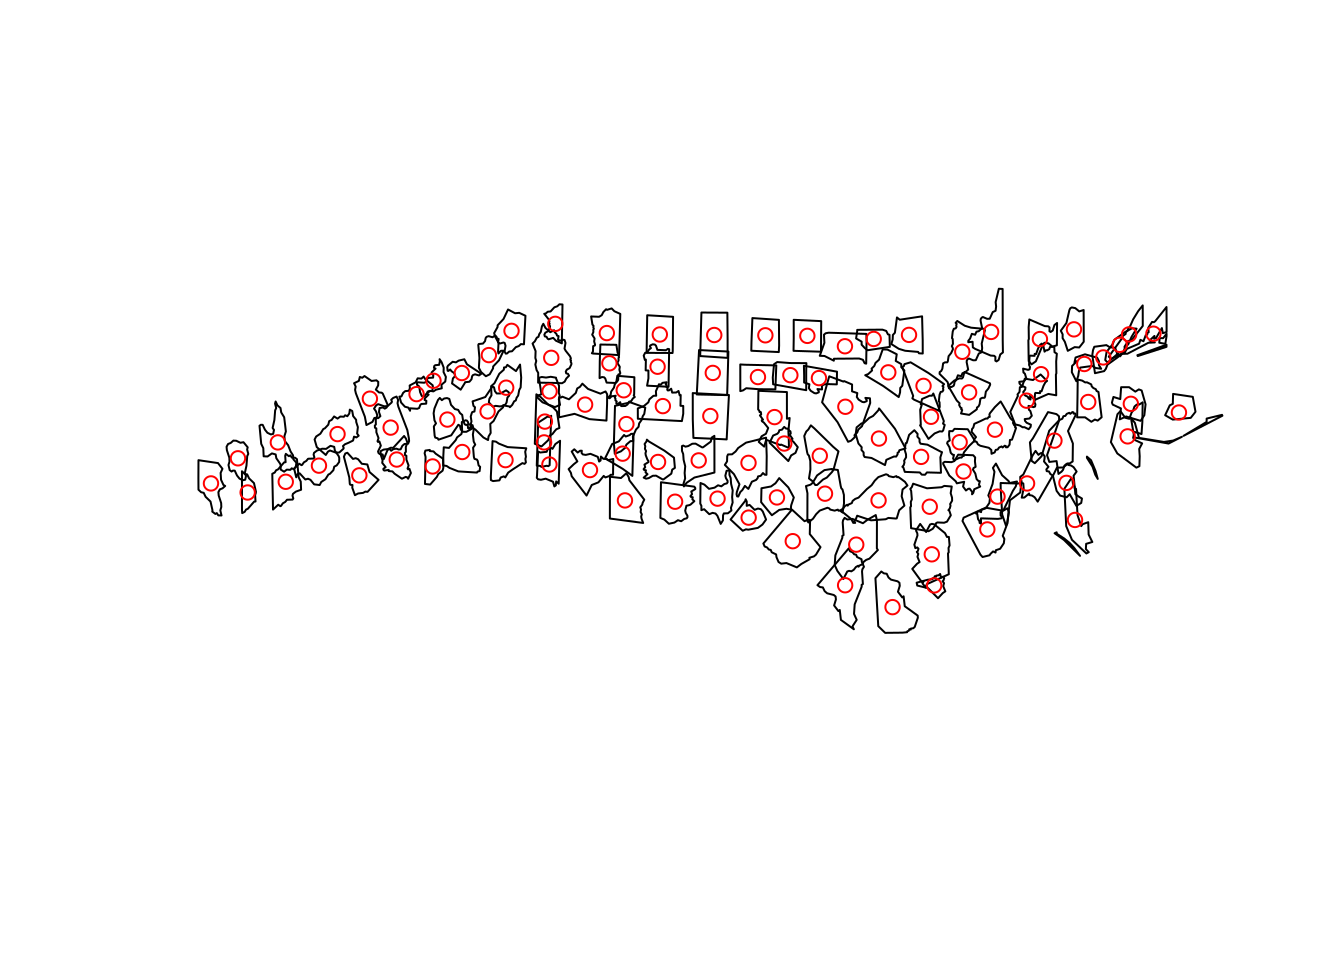
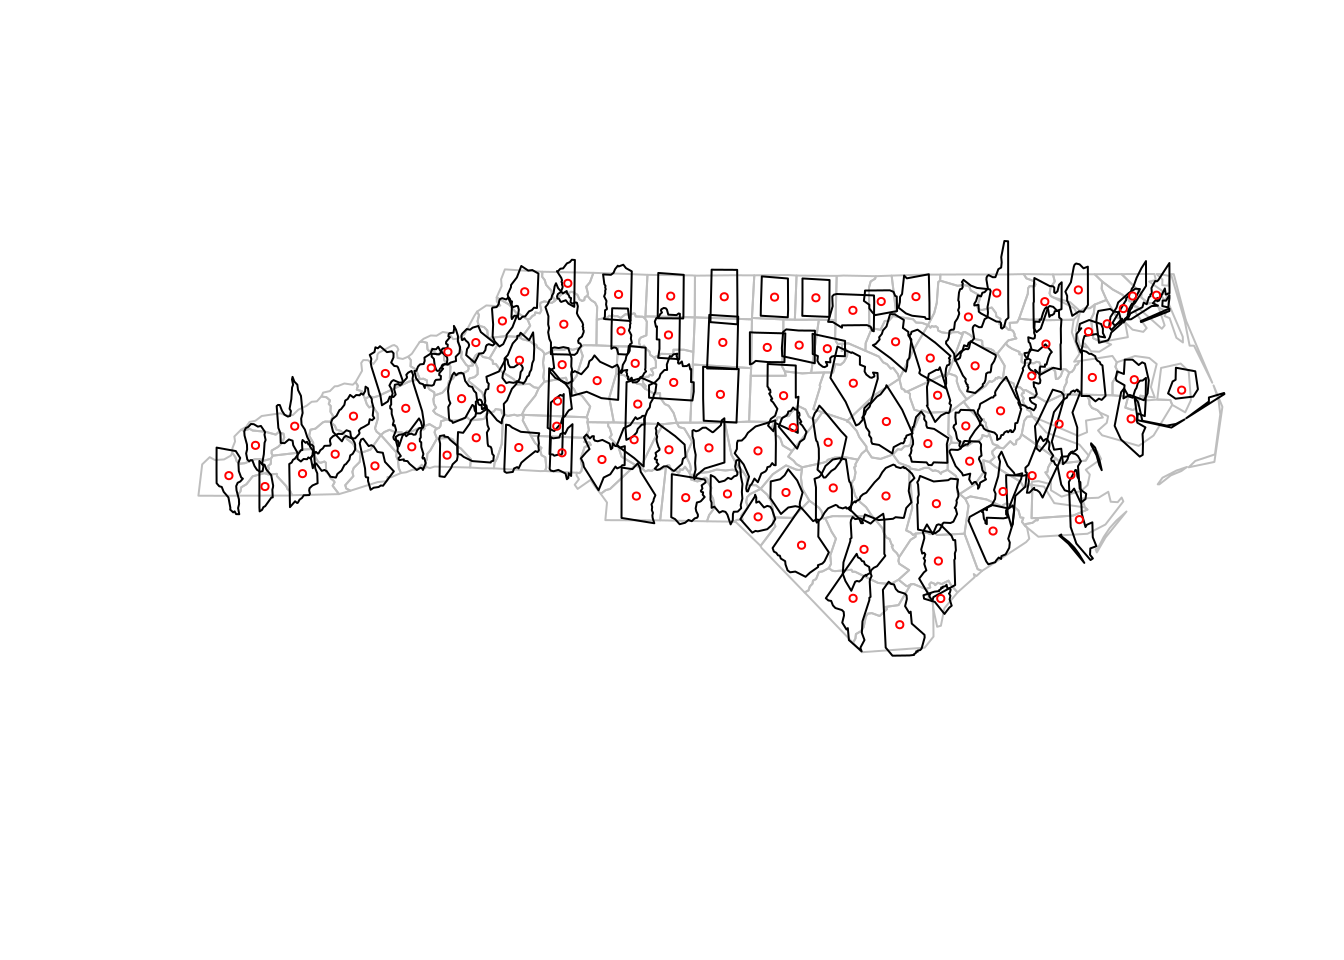
update vignette

Changed region(s): [[0.125, 0.25, 0.9062, 0.6875]]

diff --git a/docs/articles/sf3.html b/docs/articles/sf3.html
@@ -169,20 +169,13 @@ p *<span class="st"> </span><span class="kw">rot</span>(pi/<span class="dv">2</s
 ## POINT(2 1.22464679914735e-16)
 p *<span class="st"> </span><span class="kw">rot</span>(pi)
 ## POINT(2.44929359829471e-16 -2)</code></pre></div>
-<p>We can for instance rotate the counties of North Carolina 90 degrees around their centroid, and shrink them with 60%:</p>
-<div class="sourceCode"><pre class="sourceCode r"><code class="sourceCode r">nc =<span class="st"> </span><span class="kw"><a href="../reference/st_read.html">st_read</a></span>(<span class="kw">system.file</span>(<span class="st">"shape/nc.shp"</span>, <span class="dt">package=</span><span class="st">"sf"</span>))
-## Reading layer `nc' from data source `/home/edzer/git/sfr/inst/shape/nc.shp' using driver `ESRI Shapefile'
-## converted into: MULTIPOLYGON
-## Simple feature collection with 100 features and 14 fields
-## geometry type:  MULTIPOLYGON
-## dimension:      XY
-## bbox:           xmin: -84.32385 ymin: 33.88199 xmax: -75.45698 ymax: 36.58965
-## epsg (SRID):    4267
-## proj4string:    +proj=longlat +datum=NAD27 +no_defs
+<p>Just to make the point, we can for instance rotate the counties of North Carolina 90 degrees clockwise around their centroid, and shrink them to 75% of their original size:</p>
+<div class="sourceCode"><pre class="sourceCode r"><code class="sourceCode r">nc =<span class="st"> </span><span class="kw"><a href="../reference/st_read.html">st_read</a></span>(<span class="kw">system.file</span>(<span class="st">"shape/nc.shp"</span>, <span class="dt">package=</span><span class="st">"sf"</span>), <span class="dt">quiet =</span> <span class="ot">TRUE</span>)
 cntrd =<span class="st"> </span><span class="kw"><a href="../reference/geos.html">st_centroid</a></span>(nc)
 nc2 =<span class="st"> </span>(<span class="kw"><a href="../reference/st_geometry.html">st_geometry</a></span>(nc) -<span class="st"> </span>cntrd) *<span class="st"> </span><span class="kw">rot</span>(pi/<span class="dv">2</span>) *<span class="st"> </span>.<span class="dv">75</span> +<span class="st"> </span>cntrd
-<span class="kw"><a href="../reference/plot.html">plot</a></span>(nc2)
-<span class="kw"><a href="../reference/plot.html">plot</a></span>(cntrd, <span class="dt">col =</span> <span class="st">'red'</span>, <span class="dt">add =</span> <span class="ot">TRUE</span>)</code></pre></div>
+<span class="kw"><a href="../reference/plot.html">plot</a></span>(nc, <span class="dt">border =</span> <span class="st">'grey'</span>)
+<span class="kw"><a href="../reference/plot.html">plot</a></span>(nc2, <span class="dt">add =</span> <span class="ot">TRUE</span>)
+<span class="kw"><a href="../reference/plot.html">plot</a></span>(cntrd, <span class="dt">col =</span> <span class="st">'red'</span>, <span class="dt">add =</span> <span class="ot">TRUE</span>, <span class="dt">cex =</span> .<span class="dv">5</span>)</code></pre></div>
 <p><img src="sf3_files/figure-html/unnamed-chunk-7-1.png" width="672"></p>
 </div>
 <div id="coordinate-reference-systems-conversion-and-transformation" class="section level2">
